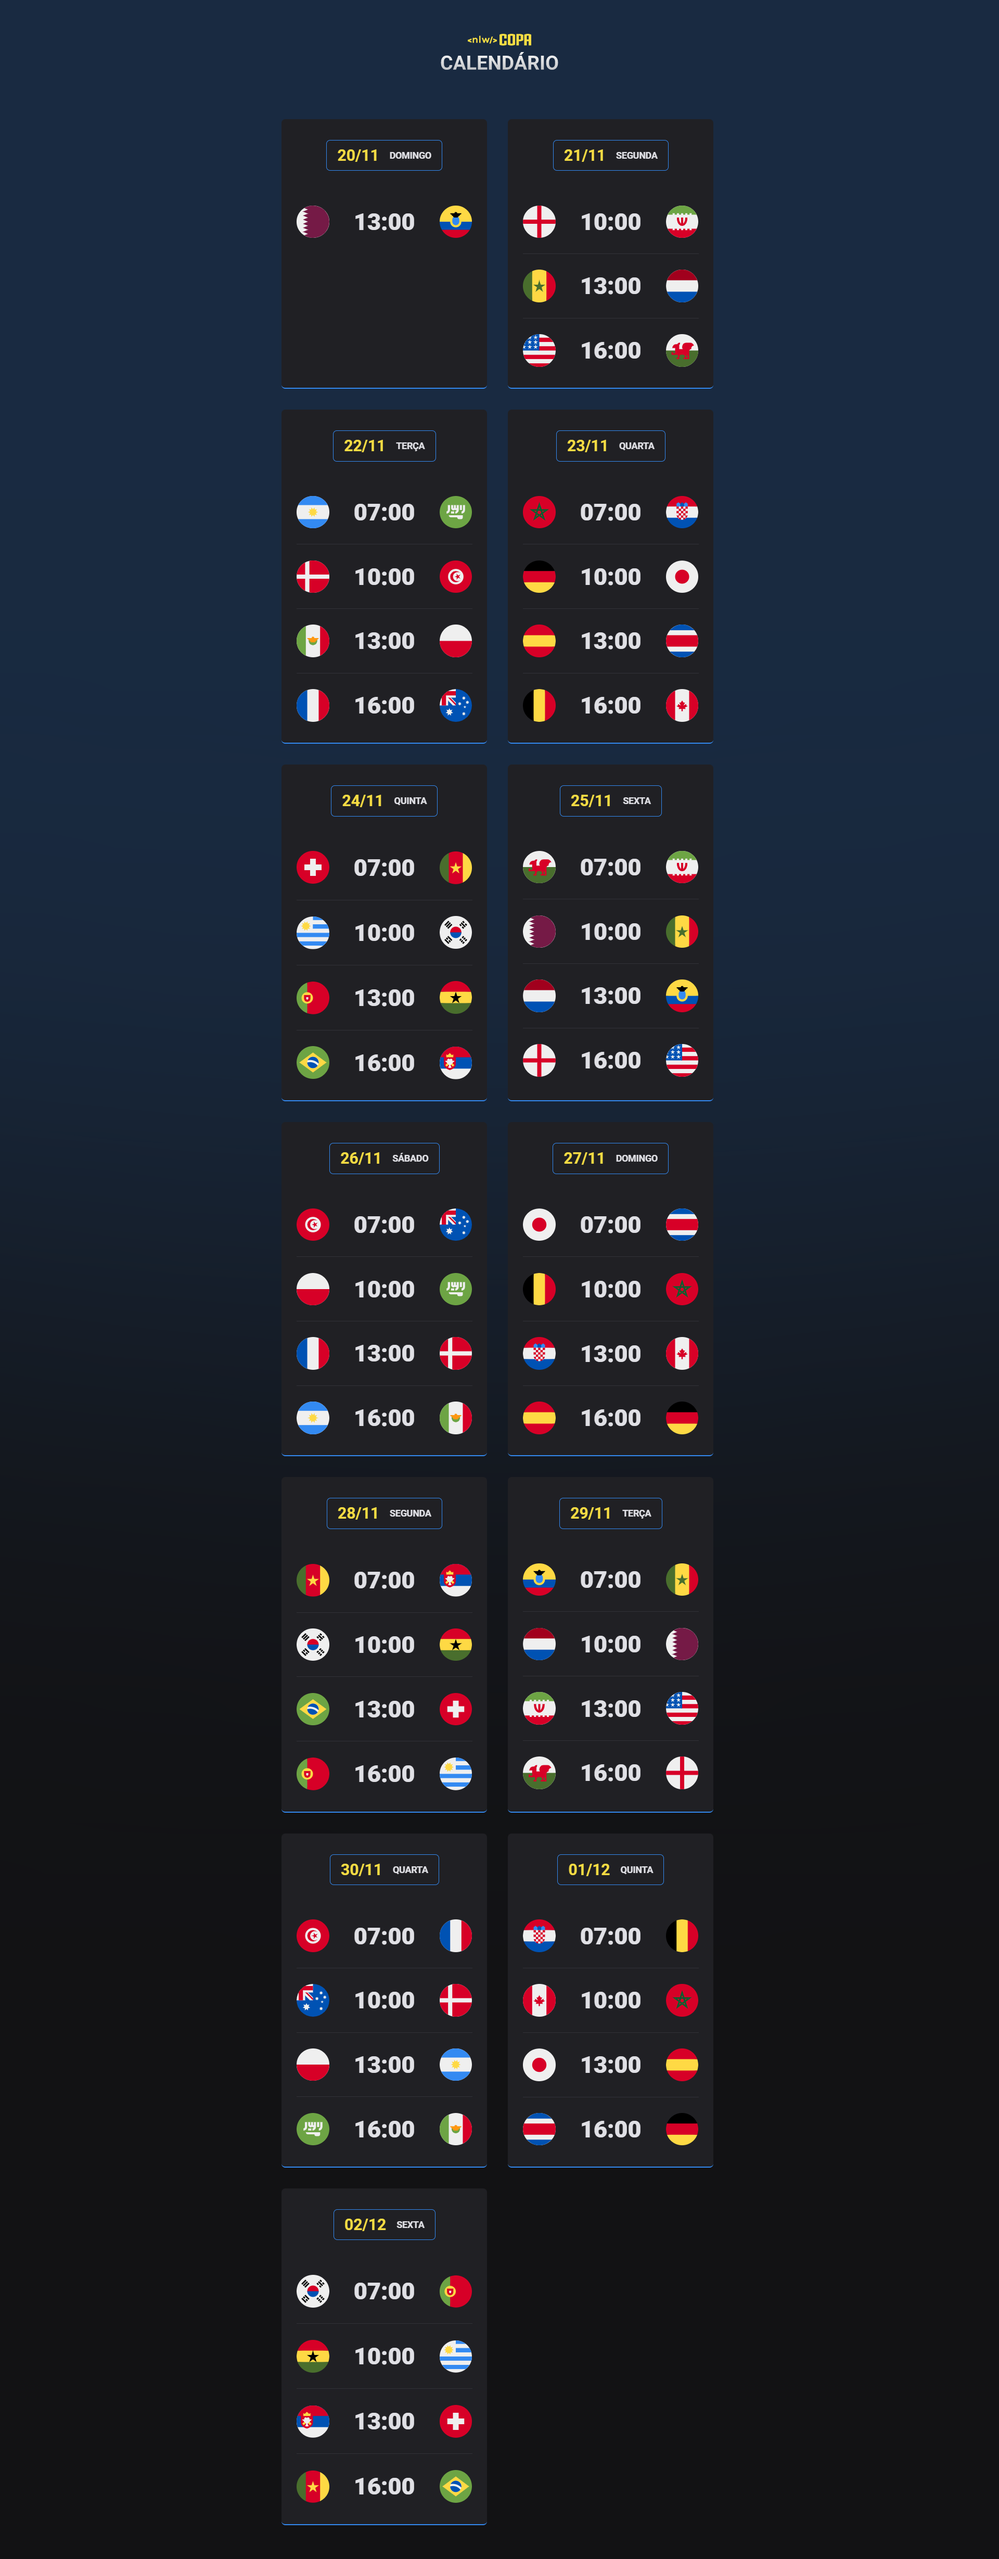
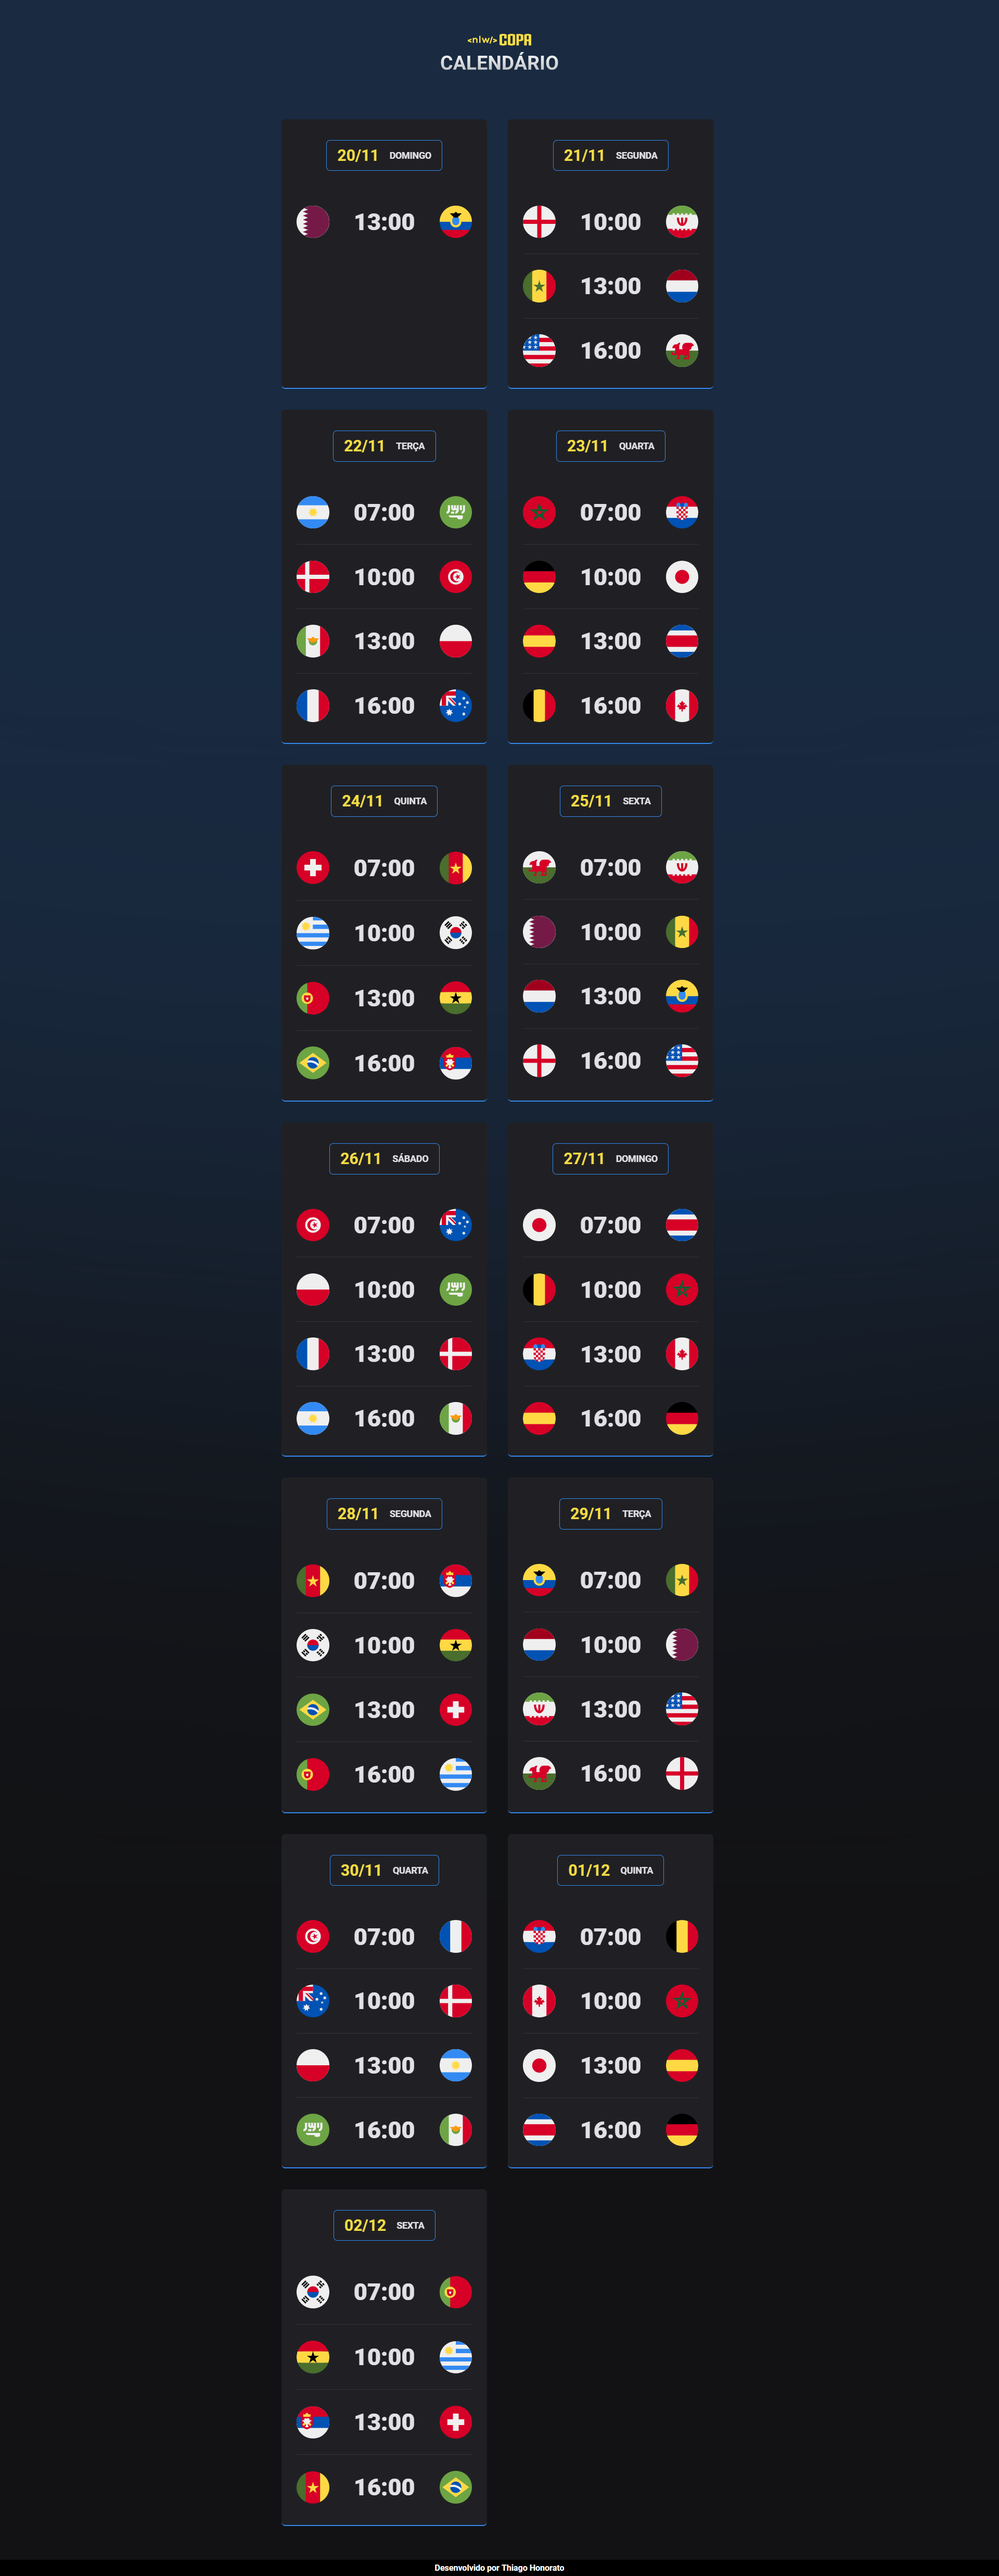
Rodapé adicionado

diff --git a/style.css b/style.css
@@ -157,3 +157,22 @@ header {
     flex-wrap: wrap;
   }
 }
+
+footer {
+  background-color: black;
+  color: white;
+  text-align: center;
+  font-size: 0.8em;
+  padding: 5px;
+}
+
+footer a {
+  color: white;
+  font-weight: bolder;
+  text-decoration: none;
+}
+
+footer a:hover {
+  text-decoration: underline;
+  color: var(--card-color-primary);
+}

diff --git a/index.html b/index.html
@@ -19,6 +19,9 @@
         
     <main id="cards"></main>
     </div>
+    <footer>
+        <p>Desenvolvido por <a href="https://www.linkedin.com/in/honoratothiago/" target="_blank">Thiago Honorato</a></p>
+    </footer>
     <script src="./main.js"></script>
 </body>
 </html>
